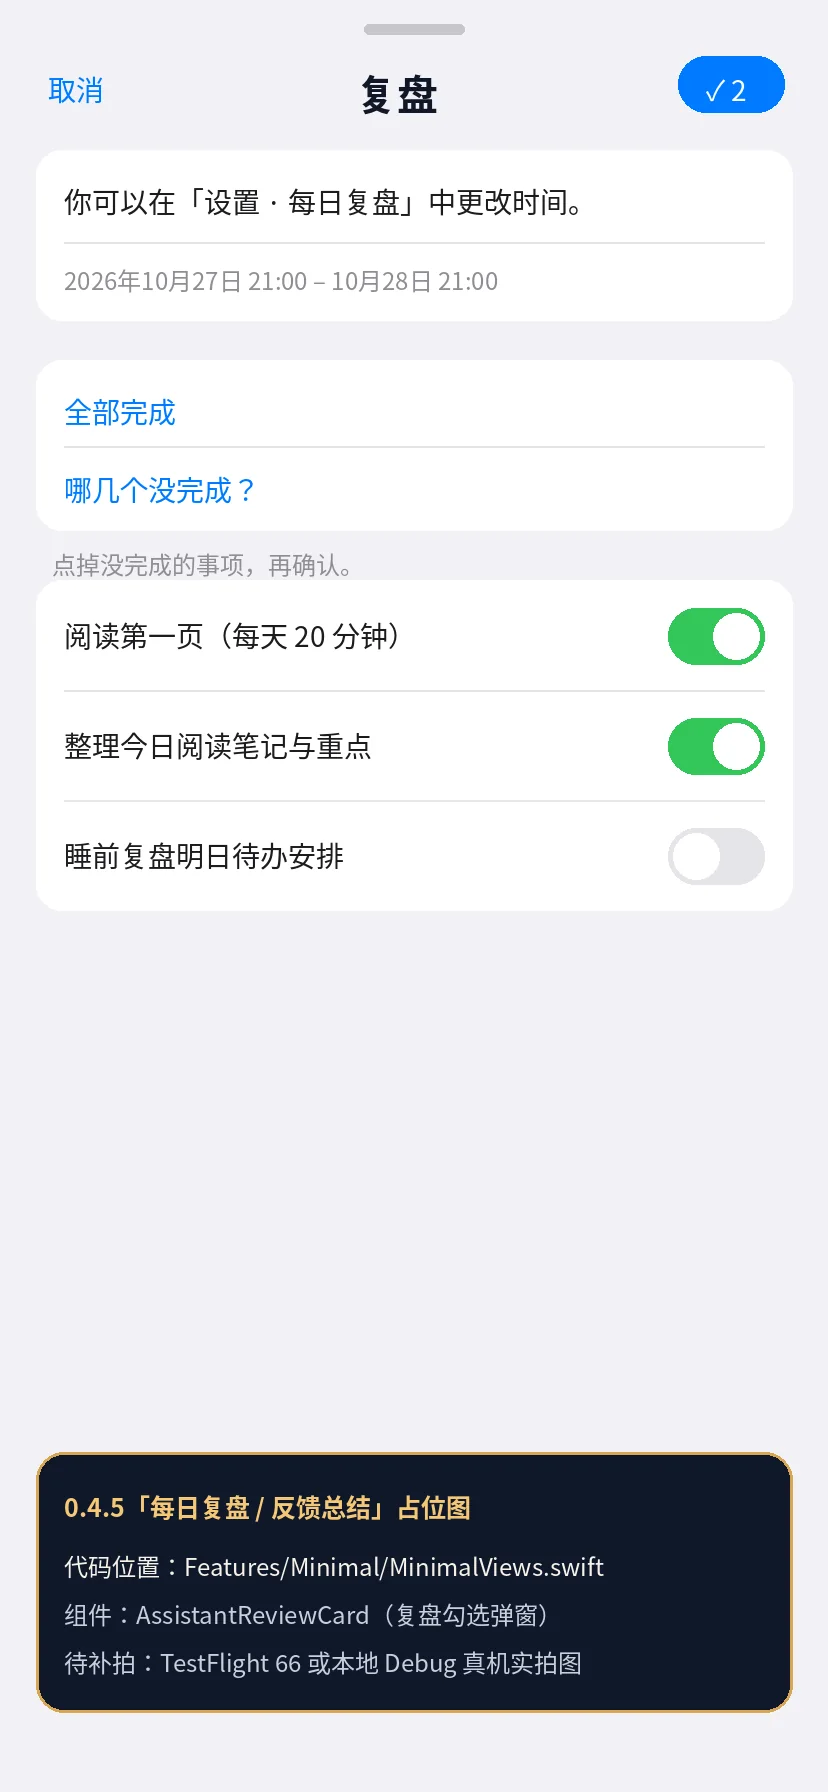
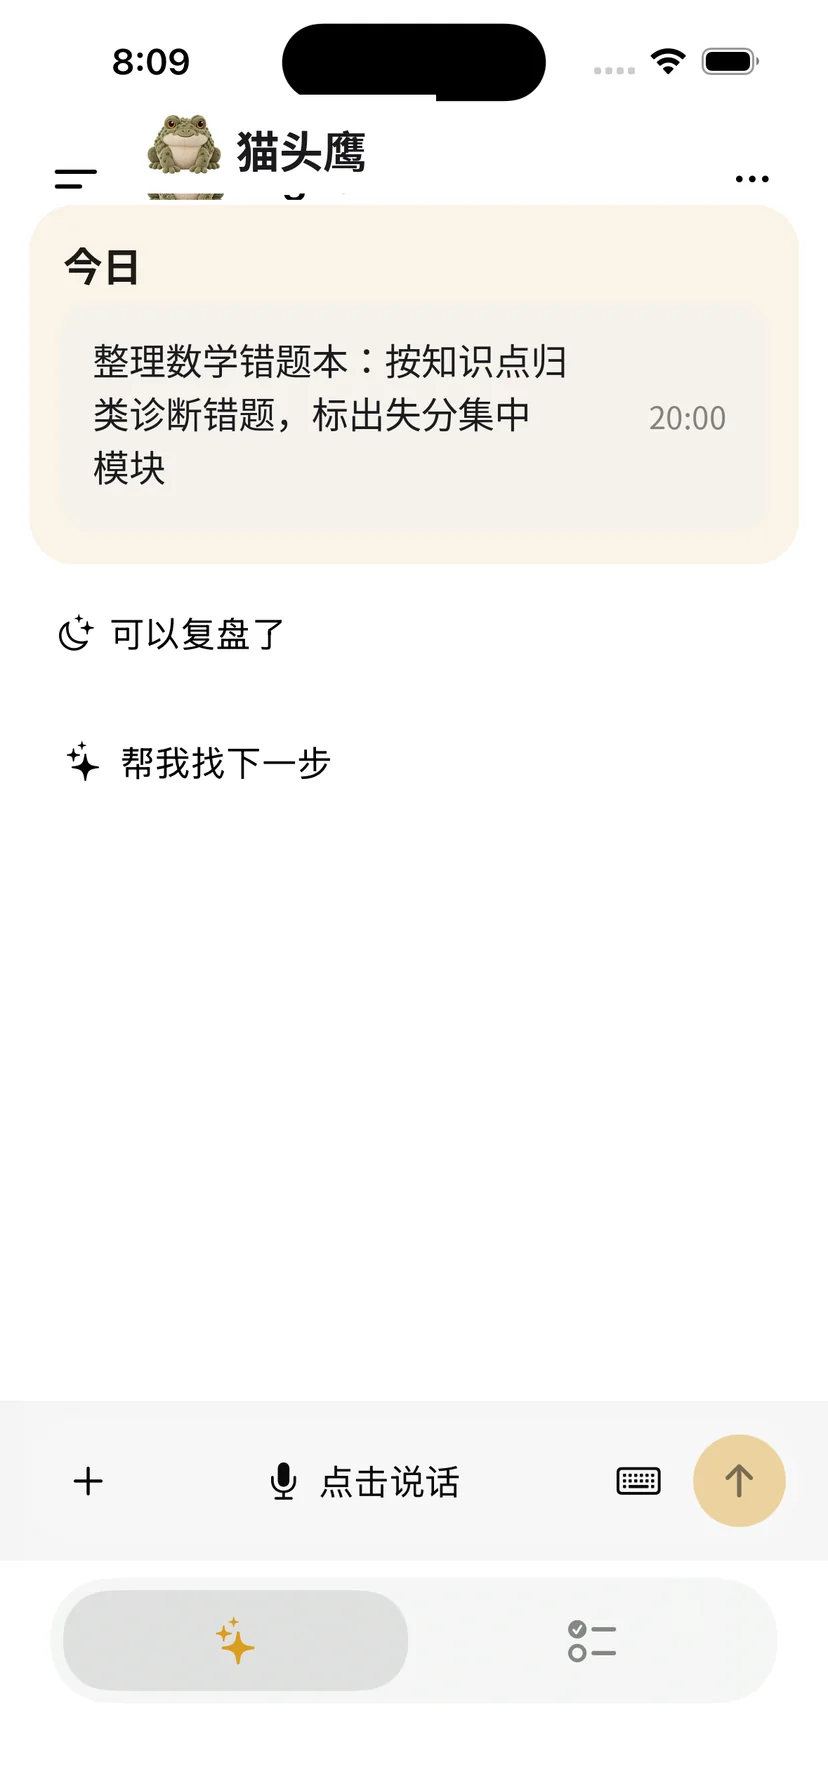
Replace daily review placeholder with 0.4.5 owl review entry screenshot

diff --git a/README.md b/README.md
@@ -26,7 +26,7 @@ Static, bilingual product website for Wizarding OS `0.4.5` (TestFlight build `66
 
 ## Screenshot Provenance & Placeholder Notice
 
-All 13 images in `assets/images/features/*.webp`, 17 gallery images in `assets/images/october-2026/*.webp`, and 7 `828×1800` JPEG derivatives in `assets/images/screenshot-*.jpg` have been regenerated without EXIF/XMP metadata from `0.4.5` evidence captures, with a clearly labeled placeholder image (`assets/images/features/daily-review-sheet.webp`, `assets/images/october-2026/08-daily-review-sheet.webp`, `assets/images/screenshot-05-daily-review.jpg`) for the `AssistantReviewCard` Daily Review sheet pending a real-device capture.
+All 13 images in `assets/images/features/*.webp`, 17 gallery images in `assets/images/october-2026/*.webp`, and 7 `828×1800` JPEG derivatives in `assets/images/screenshot-*.jpg` have been regenerated without EXIF/XMP metadata from `0.4.5` captures (`daily-review-sheet.webp`, `08-daily-review-sheet.webp`, `09-daily-review-settings.webp`, and `screenshot-05-daily-review.jpg` updated with the latest 0.4.5 Daily Review captures).
 
 ## Verification
 
